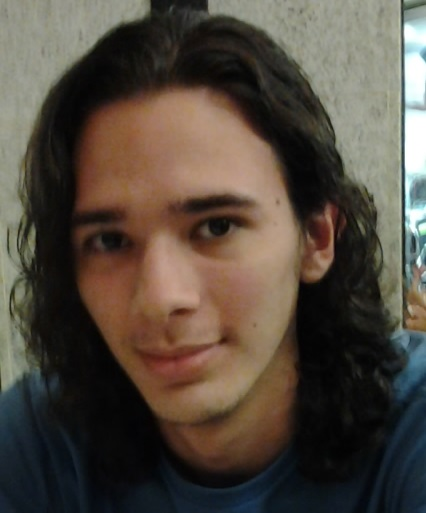
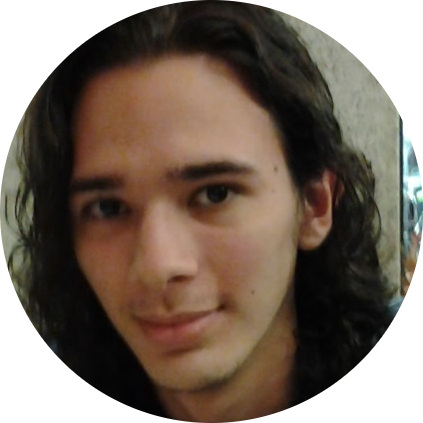
Pequenas alterações

diff --git a/index.html b/index.html
@@ -4,17 +4,20 @@
 	<title>My Profile</title>
 	<link rel="stylesheet" href="https://maxcdn.bootstrapcdn.com/bootstrap/3.3.7/css/bootstrap.min.css" integrity="sha384-BVYiiSIFeK1dGmJRAkycuHAHRg32OmUcww7on3RYdg4Va+PmSTsz/K68vbdEjh4u" crossorigin="anonymous">
 	<style type="text/css">
-	.img {
+	img {
 		display: inline;
+	}
+	body{
+		background-color: #f6f6f7;
 	}
 	.conteiner{
         display: flex;
 	}
 	.cabecalho{
-		background-image: url("img/background/quad.png");
+		
 		padding: 15px 15px 15px 15px;
 		width: 200px;
-		background-color: #50abff;
+		background-color: #a1a1b9;
 	}	
 	.corpo{
 		padding: 25px 25px 25px 25px;
@@ -33,7 +36,7 @@
 <body>
 	<div class="conteiner">
 		<div class="cabecalho">
-			<img src="img/face.jpg" height="200">
+			<img src="img/face.png" height="200">
 			<h1>Felipe Resende</h1>
 			<p>Sou aluno de Análise e Desenvolvimento de Sistemas do Instituto Federal de Ciência e Tecnologia do Piauí e atuo na área de desenvolvimento de jogos com programação e design.</p>
 			<h1>Contato</h1>
@@ -59,6 +62,7 @@
 				<h2>Crown Brawl</h2>
 				<p>Jogo que começou a ser desenvolvido em 2015 na Global Game Jam. Trata-se de uma fusão de generos como shooter e plataforma em um combate de 4 jogadores numa partida local. <a href="http://labiras.cc/crownbrawl/">Saiba mais...</a></p>
 				<img src="img/crownbrawl.png" height="480">
+				<img src="img/screen.png" height="480">
 				<hr>
 			</section>
 
